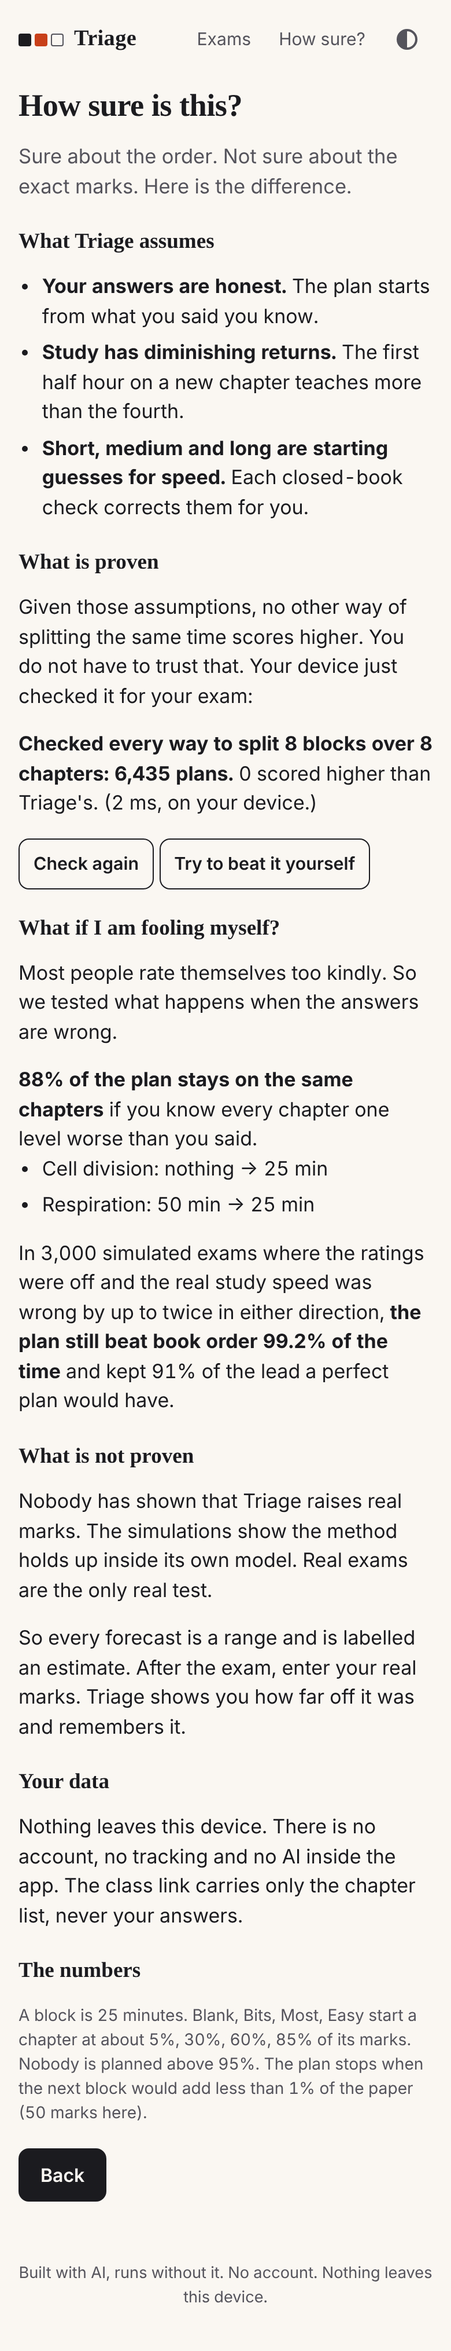
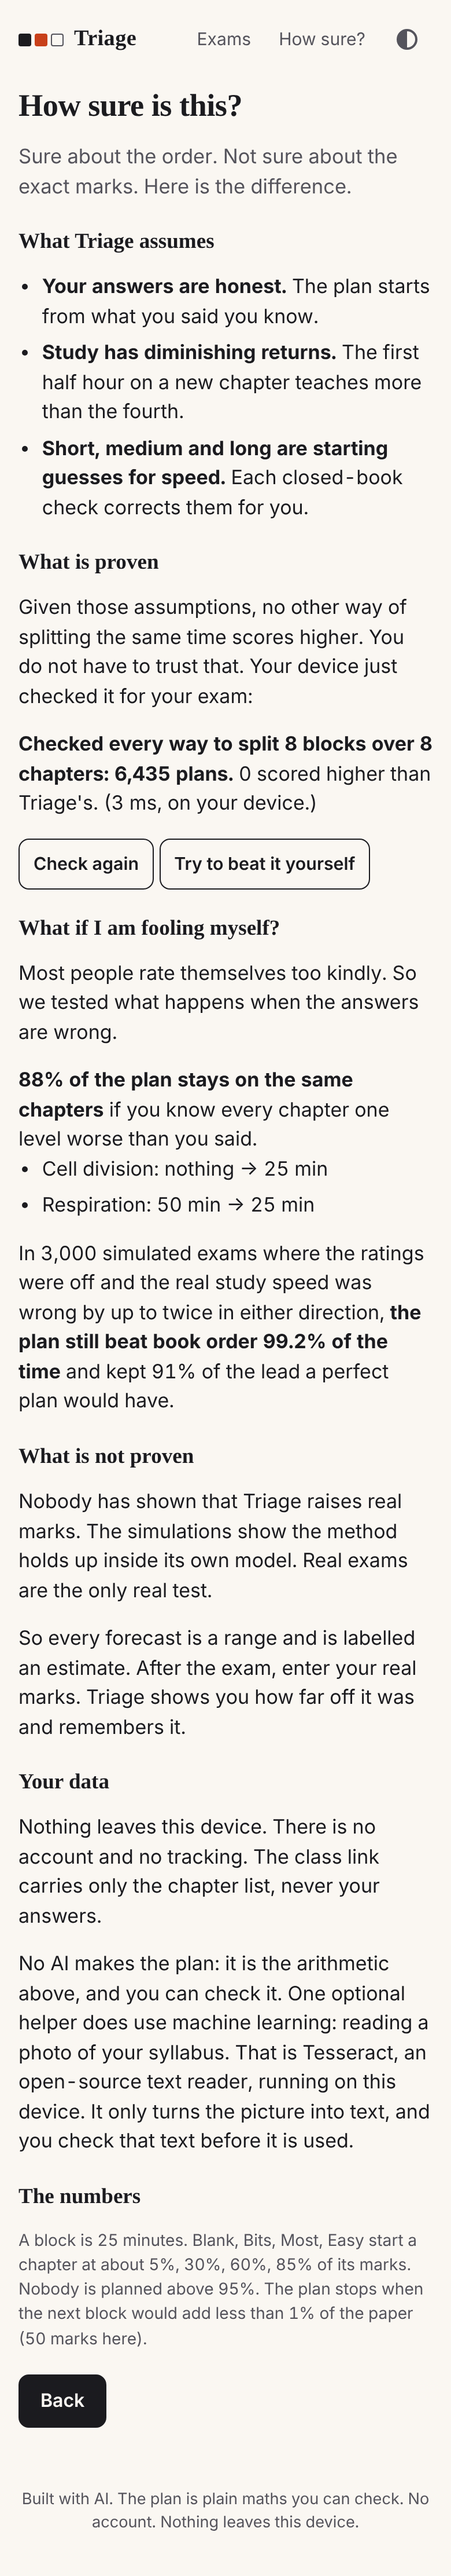
README: reading a photo, its limits, licences; new screenshots
The heading 'runs without it' is gone, because it is no longer true of
the whole app. Test counts are now 111 unit and 35 browser.

Claude-Session: https://claude.ai/code/session_014uuDQ89ZqzGa5uRrBn9SDF

Changed region(s): [[0.0308, 0.0, 0.9538, 0.9931], [0.9231, 0.9621, 0.9538, 0.9931], [0.8923, 0.0, 0.9231, 0.031]]

diff --git a/README.md b/README.md
@@ -21,7 +21,7 @@ Three mistakes: the wrong order, no rule for when to stop, and sleep paid as the
 
 ## What Triage does
 
-You paste your chapter list. For each chapter you answer one question: **"If a question from this chapter came right now?"** Blank, Bits, Most or Easy. You say when you can study and when you wake up.
+You paste your chapter list, or add a photo of it. For each chapter you answer one question: **"If a question from this chapter came right now?"** Blank, Bits, Most or Easy. You say when you can study and when you wake up.
 
 Triage then follows three rules.
 
@@ -37,6 +37,7 @@ The **Marks Map** shows the whole plan in one picture. Every square is one mark 
 
 Other things it does:
 
+- **A photo is enough.** Add a photo or a screenshot of the syllabus and Triage reads the chapters and marks from it, on your device. You check the list before it is used.
 - **Closed-book check.** After each block you close the book, recall for a minute, and tap how much came back. That answer corrects the plan.
 - **What to do in a block.** Each block shows three steps, chosen from how well you know the chapter: a first pass, practice questions, or polishing the parts you still get wrong.
 - **Off the phone.** Copy the plan as text or print it, so the phone can stay face down while you study.
@@ -62,11 +63,26 @@ Then it hands out your time one block at a time, always to the chapter where tha
 
 All of it is in [`js/engine.js`](js/engine.js), about 300 lines with comments.
 
-## Built with AI, runs without it
+## Built with AI. The plan is plain maths.
 
-There is no AI inside the running app. That was a decision. An earlier personal project of the author's put a small AI model in the browser, and in testing it invented chapter names and wrong facts. A plan someone bets an exam on should be something they can check. So the planning here is plain arithmetic, the "Why?" under every row shows the numbers, and the app can prove its own plan on your device.
+No AI makes the plan. That was a decision. An earlier personal project of the author's put a small AI model in the browser, and in testing it invented chapter names and wrong facts. A plan someone bets an exam on should be something they can check. So the planning here is plain arithmetic, the "Why?" under every row shows the numbers, and the app can prove its own plan on your device.
 
-AI is useful at the edge, for reading messy input. If you only have a photo of your syllabus, the setup screen gives you a short message to send to any AI chat you already use; you paste its answer back. No key, no server.
+Machine learning is used in one place, at the edge, for reading messy input: the photo of the syllabus. It only turns a picture into text, and the student checks that text before it is used.
+
+## Reading a photo
+
+Most students get their syllabus as a photo of a circular or a forwarded screenshot, so typing it out is the first thing that stops them. On the chapter screen you can add a photo, paste a screenshot, or drop a picture on the box.
+
+1. **Clean the picture** ([`js/clean.js`](js/clean.js), plain arithmetic, no AI). Turn the page straight, even out shadows, flip dark-mode screenshots, and remove the ruled lines of a table and the rows of dots between a name and its marks. Those are the things that make a text reader fail on a real photo.
+2. **Read the text** ([`js/ocr.js`](js/ocr.js)). This is [Tesseract](https://github.com/tesseract-ocr/tesseract), an open-source text reader with a small trained neural network, run in the browser by Tesseract.js. Its files are stored with the app in [`vendor/tesseract/`](vendor/tesseract/) (about 7 MB, fetched only when a photo is first added, then kept for offline use). The photo is never uploaded.
+3. **Tidy the text** (`tidyOcr` in [`js/parse.js`](js/parse.js), rules only). Drop the school's name, the table's header row and stray marks; turn `Light      7` into a chapter with 7 marks. Words the reader was only guessing at are left out.
+4. **You check it.** The result lands in the same box as typed text, with the same preview. If the reader was unsure, the app says the photo was hard to read.
+
+| A phone photo of a circular (a test picture) | What Triage reads from it |
+|---|---|
+| <img src="tests/e2e/fixtures/circular-photo.jpg" width="300" alt="A tilted, slightly blurred photo of a school circular with a table of 11 chapters and their marks"> | <img src="docs/screens/photo.png" width="300" alt="The chapter screen listing the 11 chapters with their marks"> |
+
+What it cannot do: handwriting, PDFs (take a screenshot of the page), and languages other than English. For those, the same screen offers a short message to send to any AI chat you already use, and you paste its answer back.
 
 ## How sure is this?
 
@@ -93,6 +109,7 @@ This section is in the app too (the "How sure?" screen).
 - Marks per chapter are often unknown. Without them the paper is split equally.
 - One exam is planned at a time. It does not yet balance several exams against each other across a week.
 - It plans time. It does not teach the chapter.
+- Photo reading is for printed or typed English. It has been tested on seven made-up pictures (a tilted phone photo of a table, a dark chat screenshot, rows of dots, a faint photocopy and others), not on a wide range of real photos. A blurred or badly lit photo will come out wrong, which is why the list is always shown for checking.
 - Nothing is synced. Clearing browser data clears your exams (there is a backup file on the Exams screen).
 
 Next: planning a whole exam week, a QR code for the class link, more languages.
@@ -109,19 +126,22 @@ python3 -m http.server 8080     # or any static file server
 Tests (Node 22 or newer):
 
 ```
-npm test                 # 96 unit tests: engine, time, paste, storage, model
+npm test                 # 111 unit tests: engine, time, paste, photo clean-up, storage, model
 node tests/robustness.js # the simulation table above
-node tests/e2e/run.mjs   # 30 browser tests, needs Playwright
+node tests/e2e/run.mjs   # 35 browser tests, needs Playwright
 ```
 
-The browser tests drive a real browser with a controlled clock: a full setup, a study block, the closed-book check, the sleep floor, a daytime exam, the class link, offline use, a browser that blocks storage, keyboard focus, and a check that no request ever leaves the app's own origin.
+The browser tests drive a real browser with a controlled clock: a full setup, a study block, the closed-book check, the sleep floor, a daytime exam, the class link, offline use, a browser that blocks storage, keyboard focus, reading seven test pictures (made by `tests/e2e/make-fixtures.mjs`), and a check that no request ever leaves the app's own origin, including while a photo is being read.
 
 ```
 index.html
 css/app.css
 js/engine.js     the maths: plan, verify, checkIn, range, squares
 js/time.js       sessions, the sleep wall, clock times
-js/parse.js      smart paste for messy syllabus text
+js/parse.js      smart paste for messy syllabus text, and tidying text read from a photo
+js/clean.js      photo clean-up: straighten, even out light, remove table lines and dots
+js/ocr.js        runs the text reader on the cleaned photo
+vendor/tesseract the text reader itself (third-party, Apache-2.0)
 js/store.js      saving, backup, the class link
 js/model.js      exam + time -> everything a screen shows
 js/ui/           one file per screen
@@ -136,7 +156,7 @@ This project was built with heavy use of AI, and the hackathon rules ask for tha
 
 - **Claude (Anthropic), in Cowork**, helped choose the idea, wrote the engine prototype, and wrote most of the code, the tests and the first drafts of these documents.
 - **Jaz** brought the problem from his own exam week, chose to enter solo, set the rule that sleep is never planned under 6 hours, asked for the weak spots of the idea to be closed, and reviewed the result.
-- **No AI runs inside the app.**
+- **Inside the app:** no AI makes the plan. One optional feature, reading a photo of the syllabus, uses Tesseract, an open-source text reader with a small trained neural network. It runs in the browser on the student's own device and sends nothing anywhere.
 
 Earlier work: the author's personal assistant "Taz OS" (1–2 October 2026) had a simple exam-eve list that led to this idea. `prototype/` holds the first sketch of the engine.
 
@@ -150,3 +170,5 @@ Earlier work: the author's personal assistant "Taz OS" (1–2 October 2026) had 
 ## Licence
 
 MIT. See [LICENSE](LICENSE).
+
+Third-party code: the text reader in [`vendor/tesseract/`](vendor/tesseract/) is Tesseract.js and tesseract.js-core (Apache-2.0) with the English model from tessdata_best (Apache-2.0). Their licences are in that folder.
